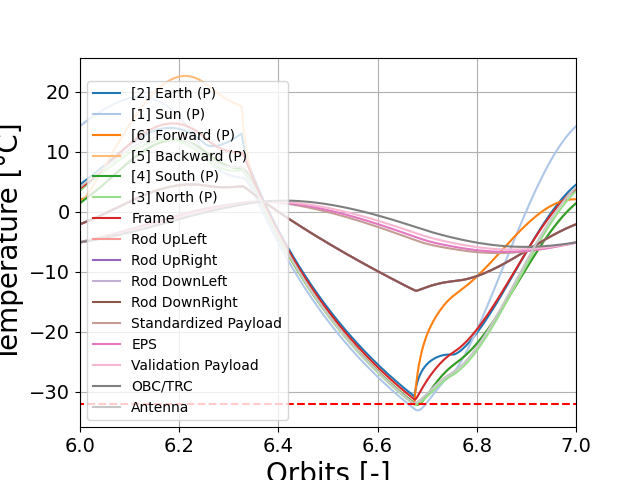
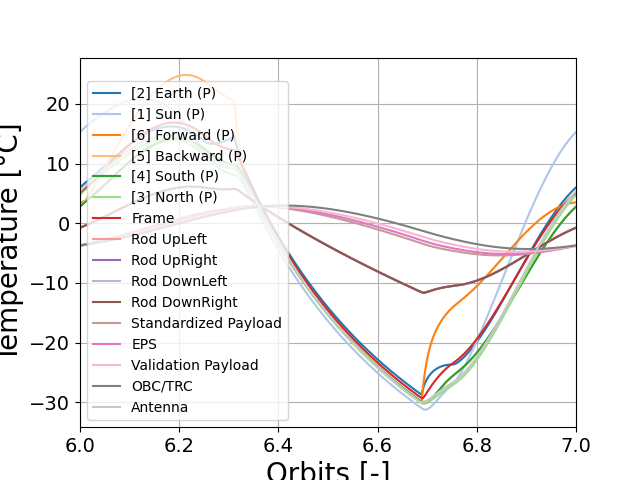
Refactor code structure for improved readability and maintainability

diff --git a/Thermal/MultiNodeThermalModel.py b/Thermal/MultiNodeThermalModel.py
@@ -262,7 +262,7 @@ NodeEPS.Toggle = [0, 0, 0, 0, 0]
 
 NodePayloadI = Node(emissivity=0, absorptivity=0, Neigbors=[
     (7, CASub, 666), (8, CASub, 666), (9, CASub, 666), (10, CASub, 666), (12, CABS, 666)
-], ID=11, m=0.031 + 0.00226, cp=750, Area=0, F=FP, Qgen=0)#0.00026)
+], ID=11, m=0.030 + 0.00226 + 0.051, cp=750, Area=0, F=FP, Qgen=0)#0.00026)
 NodePayloadI.Toggle = [0, 0, 0, 1, 0]
 
 NodeFrame = Node(emissivity=0, absorptivity=0.0, Neigbors=[
@@ -398,7 +398,7 @@ if PLOT:
 total_mass = sum(node.m for node in Nodes)
 print(f"Total mass of all components: {total_mass:.4f} kg")
 
-if PLOT:
+if not PLOT:
     import networkx as nx
     import matplotlib.pyplot as plt
 
@@ -430,7 +430,7 @@ if PLOT:
         G, pos,
         with_labels=False,
         node_color=node_colors,
-        node_size=1500,
+        node_size=1000,
         font_size=14,
         font_weight='bold',
         edge_color=edge_colors,

diff --git a/Thermal/Sensitivity Analysis.py b/Thermal/Sensitivity Analysis.py
@@ -22,7 +22,7 @@ def r(theta):
 # Orbital parameters
 #--------------------------------------------------------------
 
-OrbitalHeight = 800  # [km] 
+OrbitalHeight = 500  # [km] 
 R = 6371             # [km] Radius of Earth
 OrbitalPeriod = 2 * np.pi * np.sqrt(((OrbitalHeight+R)*1000)**3 / (3.986004418*10**14)) # [s]
 F = (R)**2/(OrbitalHeight+R)**2
